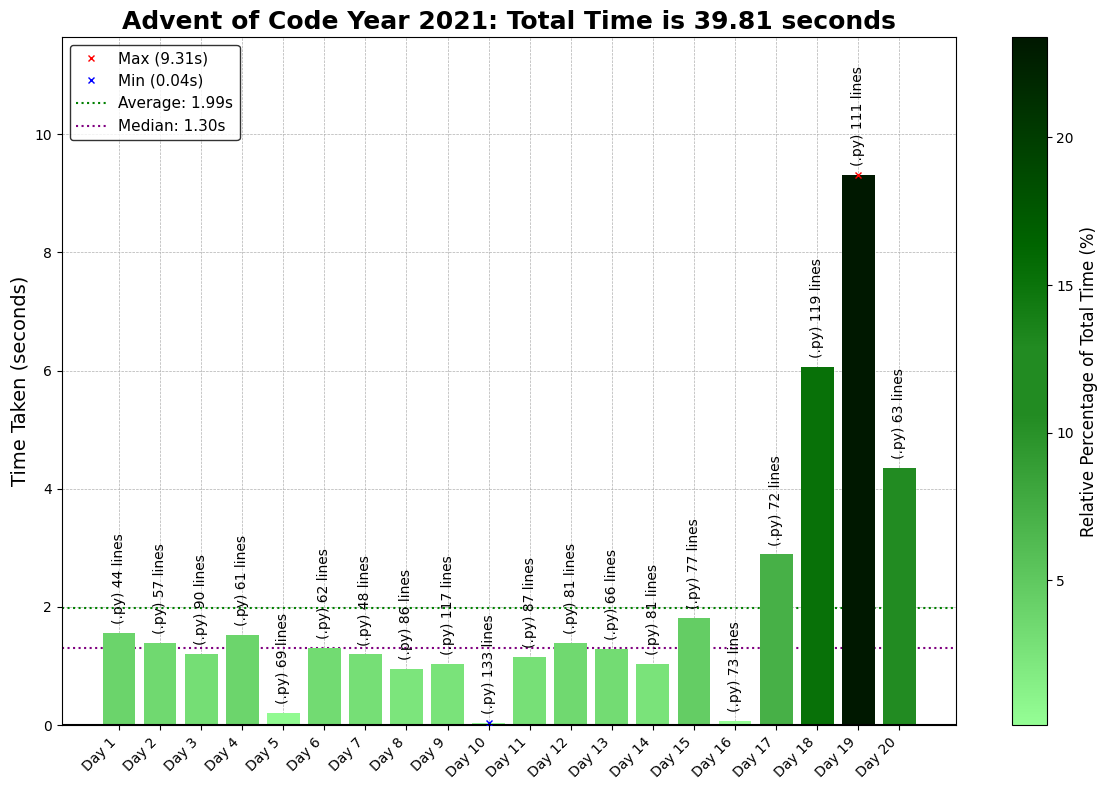
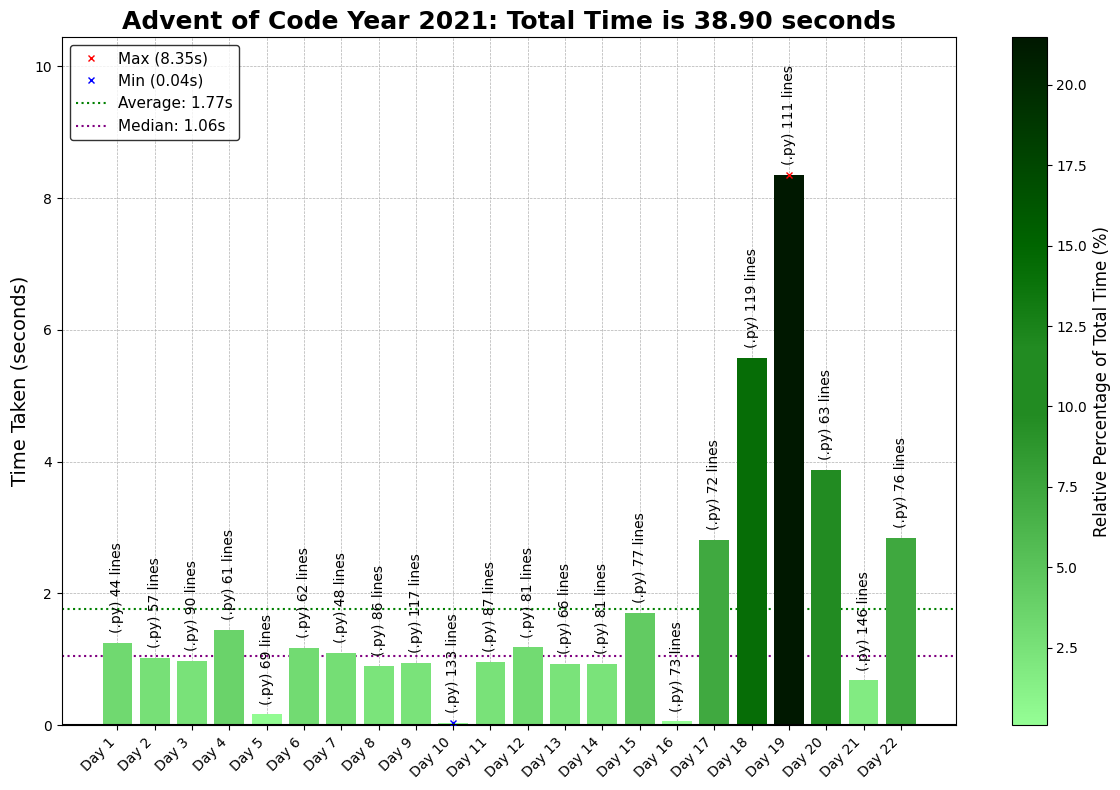
2021 Day 21 & 22

diff --git a/2021/21/2021Day21.py b/2021/21/2021Day21.py
@@ -1,0 +1,146 @@
+# Advent of Code - Day 21, Year 2021
+# Solution Started: Nov 26, 2024
+# Puzzle Link: https://adventofcode.com/2021/day/21
+# Solution by: [abbasmoosajee07]
+# Brief: [Dirac Dice]
+
+#!/usr/bin/env python3
+
+import os, re, copy
+import numpy as np
+import pandas as pd
+from itertools import product, cycle
+from functools import lru_cache
+
+# Load the input data from the specified file path
+D21_file = "Day21_input.txt"
+D21_file_path = os.path.join(os.path.dirname(os.path.abspath(__file__)), D21_file)
+
+# Read and sort input data into a grid
+with open(D21_file_path) as file:
+    input_data = file.read().strip().split('\n')
+
+# Load the input data from the specified file path
+D21_file = "Day21_input.txt"
+D21_file_path = os.path.join(os.path.dirname(os.path.abspath(__file__)), D21_file)
+
+# Read and sort input data into a grid
+with open(D21_file_path) as file:
+    input_data = file.read().strip().split('\n')
+
+def parse_player_info(player_list):
+    """Parse the input data to get player starting positions."""
+    player_dict = {}
+    for player in player_list:
+        player_number, start_position = map(int,
+                re.search(r"Player (\d+) starting position: (\d+)",
+                    player).groups())
+        player_dict[player_number] = [start_position, 0]  # [position, score]
+    return player_dict
+
+def play_turn(players, player_no, total_rolls, dice_size = 100):
+    """Simulate a player's turn by rolling dice and updating their position and score."""
+    board_position = players[player_no][0]
+
+    # Roll the dice 3 times per turn
+    for _ in range(ROLLS_PER_TURN):
+        dice_roll = (total_rolls % dice_size) + 1  # Dice rolls between 1 and 100
+        total_rolls += 1  # Move to the next dice roll
+
+        # Update the player's board position with wrap-around
+        board_position = (board_position + dice_roll - 1) % BOARD_SIZE + 1
+
+    # Update the player's position and score
+    players[player_no][0] = board_position
+    players[player_no][1] += board_position  # Add the new board position to score
+
+    return players, total_rolls  # Continue the game otherwise
+
+
+BOARD_SIZE = 10
+ROLLS_PER_TURN = 3
+
+def play_simple_game(player_init, winning_score):
+    player_dict = copy.deepcopy(player_init)
+    turn = 0
+    total_rolls = 0
+    game_over = False
+
+    while not game_over:
+        # Alternate between player 1 and player 2
+        player_no = (turn % len(player_dict)) + 1
+        player_dict, total_rolls = play_turn(player_dict, player_no, total_rolls)
+        turn += 1
+        if player_dict[player_no][1] >= winning_score:
+            game_over = True
+
+    losing_player = (player_no % len(player_dict)) + 1
+    losing_player_score = player_dict[losing_player][1]
+    return total_rolls * losing_player_score
+
+player_init = parse_player_info(input_data)
+ans_p1 = play_simple_game(player_init, winning_score = 1000)
+print("Part 1:", ans_p1)
+
+# Precompute all possible quantum dice roll outcomes (sums of 3 rolls of a 3-sided die)
+QUANTUM_ROLLS = tuple(sum(rolls) for rolls in product(range(1, 4), repeat=3))
+
+@lru_cache(maxsize=None)
+def play_quantum_round(current_player_pos, current_player_score, other_player_pos, other_player_score, score_limit):
+    """
+    Recursively simulate all possible universes for the quantum dice game.
+    
+    Arguments:
+    - current_player_pos: The current position of the active player.
+    - current_player_score: The score of the active player.
+    - other_player_pos: The current position of the opponent.
+    - other_player_score: The score of the opponent.
+    - score_limit: The score required to win the game.
+
+    Returns:
+    - A tuple (current_player_wins, other_player_wins), representing the number
+      of universes won by each player from this state.
+    """
+    # If the current player has reached or exceeded the score limit, they win
+    if current_player_score >= score_limit:
+        return 1, 0
+
+    # If the other player has reached or exceeded the score limit, they win
+    if other_player_score >= score_limit:
+        return 0, 1
+
+    # Track the total wins for both players
+    current_player_wins = 0
+    other_player_wins = 0
+
+    # Iterate over all possible quantum dice roll outcomes
+    for roll_sum in QUANTUM_ROLLS:
+        # Calculate the new position and score for the current player
+        new_position = (current_player_pos + roll_sum - 1) % 10 + 1
+        new_score = current_player_score + new_position
+
+        # Simulate the game from the opponent's perspective (switch turns)
+        opponent_wins, player_wins = play_quantum_round(
+            other_player_pos, other_player_score, new_position, new_score, score_limit
+        )
+
+        # Update the win counts for this branch
+        current_player_wins += player_wins
+        other_player_wins += opponent_wins
+
+    return current_player_wins, other_player_wins
+
+def start_quantum_game(player_dict, score_limit):
+
+    player_pos_1 = player_dict[1][0]
+    player_score_1 = player_dict[1][1]
+    player_pos_2 = player_dict[2][0]
+    player_score_2 = player_dict[2][1]
+
+    wins =  play_quantum_round(player_pos_1, player_score_1, player_pos_2, player_score_2, score_limit)
+    return wins
+
+score_limit = 21
+quantum_iters = start_quantum_game(player_init, score_limit)
+print("Part 2:", max(quantum_iters))
+

diff --git a/2021/22/2021Day22_P2.py b/2021/22/2021Day22_P2.py
@@ -1,0 +1,113 @@
+# Advent of Code - Day 22, Year 2021
+# Solution Started: Nov 26, 2024
+# Puzzle Link: https://adventofcode.com/2021/day/22
+# Solution by: [abbasmoosajee07]
+# Brief: [Cubes, a lot of Cubes P2]
+
+#!/usr/bin/env python3
+
+import os, re, copy
+import numpy as np
+import pandas as pd
+import matplotlib.pyplot as plt
+
+# Load the input data from the specified file path
+D22_file = "Day22_input.txt"
+D22_file_path = os.path.join(os.path.dirname(os.path.abspath(__file__)), D22_file)
+
+# Read and sort input data into a grid
+with open(D22_file_path) as file:
+    input_data = file.read().strip()#.split('\n')
+
+import collections
+import re
+
+# Named tuples for point and instruction definitions
+Point = collections.namedtuple("Point", ["x", "y", "z"])
+Instruction = collections.namedtuple("Instruction", ["value", "cuboid"])
+
+class Cuboid:
+    def __init__(self, corner1: Point, corner2: Point):
+        self.c1 = corner1  # First corner of the cuboid (min corner)
+        self.c2 = corner2  # Second corner of the cuboid (max corner)
+
+    def __repr__(self):
+        """Return a string representation of the cuboid."""
+        return f"Cuboid: {self.c1.x, self.c1.y, self.c1.z}, {self.c2.x, self.c2.y, self.c2.z}"
+
+    def is_valid(self) -> bool:
+        """Check if the cuboid is valid (no zero or negative volume)."""
+        return (self.c1.x < self.c2.x) and (self.c1.y < self.c2.y) and (self.c1.z < self.c2.z)
+
+    @property
+    def volume(self):
+        """Calculate and return the volume of the cuboid."""
+        return (self.c2.x - self.c1.x) * (self.c2.y - self.c1.y) * (self.c2.z - self.c1.z)
+
+def get_overlap(a: Cuboid, b: Cuboid):
+    """Calculate the overlapping cuboid between two cuboids, or return None if no overlap."""
+    # Create a potential overlap cuboid by comparing the minimum and maximum coordinates
+    overlap = Cuboid(
+        Point(max(a.c1.x, b.c1.x), max(a.c1.y, b.c1.y), max(a.c1.z, b.c1.z)),
+        Point(min(a.c2.x, b.c2.x), min(a.c2.y, b.c2.y), min(a.c2.z, b.c2.z))
+    )
+    # If the overlap is valid, return it, else return None
+    return overlap if overlap.is_valid() else None
+
+def parse_input(filename: str) -> list[Instruction]:
+    """Parse the input file and return a list of instructions."""
+    regex = re.compile(r"(on|off) x=(-?[0-9]+)\.\.(-?[0-9]+),y=(-?[0-9]+)\.\.(-?[0-9]+),z=(-?[0-9]+)\.\.(-?[0-9]+)")
+    instructions = []
+    
+    with open(filename, "r") as file:
+        for line in file:
+            if match := regex.search(line):
+                value = match[1] == "on"  # 'on' means True, 'off' means False
+                pt1 = Point(int(match[2]), int(match[4]), int(match[6]))
+                pt2 = Point(int(match[3]), int(match[5]), int(match[7]))
+                
+                # Ensure the coordinates are ordered min..max for consistency
+                assert pt1 == Point(min(pt1.x, pt2.x), min(pt1.y, pt2.y), min(pt1.z, pt2.z)), \
+                    "Input data ordering doesn't comply with expected min..max format"
+                assert pt2 == Point(max(pt1.x, pt2.x), max(pt1.y, pt2.y), max(pt1.z, pt2.z)), \
+                    "Input data ordering doesn't comply with expected min..max format"
+                
+                # Adjust to match the correct corner points (add 1 to pt2)
+                pt2 = Point(pt2.x + 1, pt2.y + 1, pt2.z + 1)
+                cuboid = Cuboid(pt1, pt2)
+                instructions.append(Instruction(value, cuboid))
+            else:
+                assert False, f"Error reading line: {line} -- are the coordinates out of order?"
+    
+    return instructions
+
+def run_instructions(instructions: list[Instruction]) -> int:
+    """Execute all instructions and calculate the total volume of lit cubes."""
+    placed = []  # List to keep track of placed cuboids
+    total_volume = 0  # Total volume of 'on' cubes
+
+    for instruction in reversed(instructions):
+        # If the cuboid is 'on', we calculate its contribution to the total volume
+        if instruction.value:
+            overlaps = []
+            # Check for overlaps with previously placed cuboids
+            for cuboid in placed:
+                if (overlapping := get_overlap(cuboid, instruction.cuboid)) is not None:
+                    # If there's an overlap, we consider it as 'on'
+                    overlaps.append(Instruction(True, overlapping))
+            # Calculate the volume contributed by the current cuboid
+            volume_to_add = instruction.cuboid.volume - run_instructions(overlaps)
+            total_volume += volume_to_add
+
+        # Add the current cuboid to the placed list (whether it's on or off)
+        placed.append(instruction.cuboid)
+    
+    # Ensure the total volume is non-negative
+    assert total_volume >= 0, "Negative volume shouldn't happen"
+    return total_volume
+
+# Load and parse the input file
+instructions = parse_input(D22_file_path)
+
+# Calculate the total number of lit cubes and print the result
+print(f"Part 2: {run_instructions(instructions)}")

diff --git a/2021/22/2021Day22_P1.py b/2021/22/2021Day22_P1.py
@@ -1,0 +1,76 @@
+# Advent of Code - Day 22, Year 2021
+# Solution Started: Nov 26, 2024
+# Puzzle Link: https://adventofcode.com/2021/day/22
+# Solution by: [abbasmoosajee07]
+# Brief: [Cubes, a lot of Cubes P1]
+
+#!/usr/bin/env python3
+
+import os, re, copy
+import numpy as np
+import pandas as pd
+import matplotlib.pyplot as plt
+
+# Load the input data from the specified file path
+D22_file = "Day22_input.txt"
+D22_file_path = os.path.join(os.path.dirname(os.path.abspath(__file__)), D22_file)
+
+# Read and sort input data into a grid
+with open(D22_file_path) as file:
+    input_data = file.read().strip().split('\n')
+
+def parse_instruction(instruction_list):
+    complete_dict = []
+    for instruction in instruction_list:
+        # Use regex to match the pattern
+        pattern = r"(?P<action>\w+) x=(?P<x_start>-?\d+)..(?P<x_end>-?\d+),y=(?P<y_start>-?\d+)..(?P<y_end>-?\d+),z=(?P<z_start>-?\d+)..(?P<z_end>-?\d+)"
+        match = re.match(pattern, instruction)
+
+        if match:
+            instruction_dict = {
+                "action": match.group("action"),
+                "x_range": (int(match.group("x_start")), int(match.group("x_end"))),
+                "y_range": (int(match.group("y_start")), int(match.group("y_end"))),
+                "z_range": (int(match.group("z_start")), int(match.group("z_end"))),
+            }
+        complete_dict.append(instruction_dict)
+    return complete_dict
+
+# Example usage
+instruction_dict = parse_instruction(input_data)
+
+def create_cuboid(cuboid_info, limit = 50):
+    cube_coords = set()
+    x1, x2 = cuboid_info['x_range']
+    y1, y2 = cuboid_info['y_range']
+    z1, z2 = cuboid_info['z_range']
+
+    # Ensure the ranges are correct: always iterate from the smaller value to the larger value
+    x_min, x_max = min(x1, x2), max(x1, x2)
+    y_min, y_max = min(y1, y2), max(y1, y2)
+    z_min, z_max = min(z1, z2), max(z1, z2)
+
+    # Check if all coordinates are within the valid range of -limit to limit
+    if -limit <= x_min <= limit and -limit <= x_max <= limit and -limit <= y_min <= limit \
+        and -limit <= y_max <= limit and -limit <= z_min <= limit and -limit <= z_max <= limit:
+        # Iterate through all points within the cuboid range
+        for x in range(x_min, x_max + 1):
+            for y in range(y_min, y_max + 1):
+                for z in range(z_min, z_max + 1):
+                    cube_coords.add((x, y, z))
+    else:
+        cube_coords = set()
+    return cube_coords
+
+full_grid = set()
+
+# Assuming instruction_dict is a list of dictionaries with 'action' and range information
+for instruction in instruction_dict:
+    cube_coords = create_cuboid(instruction)
+    if instruction['action'] == 'on':
+        full_grid.update(cube_coords)
+    elif instruction['action'] == 'off':
+        full_grid.difference_update(cube_coords)
+
+# Print the result (total number of cubes turned on)
+print("Part 1:", len(full_grid))

diff --git a/2021/20/2021Day20.py b/2021/20/2021Day20.py
@@ -2,7 +2,7 @@
 # Solution Started: Nov 26, 2024
 # Puzzle Link: https://adventofcode.com/2021/day/20
 # Solution by: [abbasmoosajee07]
-# Brief: [Code/Problem Description]
+# Brief: [Image Decoding]
 
 #!/usr/bin/env python3
 

diff --git a/TemplateCode.py b/TemplateCode.py
@@ -7,7 +7,7 @@
 import os, sys, time
 
 # Default values for the arguments
-DEFAULT_DAY = 4
+DEFAULT_DAY = 22
 DEFAULT_YEAR = 2021
 DEFAULT_YEAR_SOLVE = 2024
 DEFAULT_AUTHOR = 'abbasmoosajee07'

diff --git a/README.md b/README.md
@@ -18,17 +18,16 @@ In this repository, you’ll find:
 - Each year folder also contains a `Run_2024.py` script that runs all the primary solutions for that year, and generates a runtime plot stored in the corresponding `README_2024.md`.
 
 ## How to Use
-
-| Year | Stars | Languages     | Repository |
-|------|-------|--------------------|-----------|
-| 2024 |       |       | [GitHub](https://github.com/abbasmoosajee07/AdventofCode) |
-| 2023 |       |              | [GitHub](https://github.com/abbasmoosajee07/AdventofCode) |
-| 2022 | 2\*   |              | [GitHub](https://github.com/abbasmoosajee07/AdventofCode) |
-| 2021 |       |                    | [GitHub](https://github.com/abbasmoosajee07/AdventofCode) |
-| 2020 |       |                    | [GitHub](https://github.com/abbasmoosajee07/AdventofCode) |
-| 2019 |24\*   | Python/Ruby/C | [GitHub](https://github.com/abbasmoosajee07/AdventofCode/tree/main/2019) |
-| 2018 | 50\*  | Python/Ruby/C             | [GitHub](https://github.com/abbasmoosajee07/AdventofCode/tree/main/2018) |
-| 2017 | 50\*  | Python/Ruby/C   | [GitHub](https://github.com/abbasmoosajee07/AdventofCode/tree/main/2017) |
-| 2016 | 50\*  | Python/Ruby/C             | [GitHub](https://github.com/abbasmoosajee07/AdventofCode/tree/main/2016) |
-| 2015 | 50\*  | Python/Ruby/C/R             | [GitHub](https://github.com/abbasmoosajee07/AdventofCode/tree/main/2015) |
-| **Total** | **202\*** |                    |           |
+| Year | Stars | Time (s) | Languages        | Repository |
+|------|-------|-----------------|------------------|------------|
+| 2024 |       |                 |                  | [GitHub](https://github.com/abbasmoosajee07/AdventofCode) |
+| 2023 |       |                 |                  | [GitHub](https://github.com/abbasmoosajee07/AdventofCode) |
+| 2022 | 2\*   |                 |                  | [GitHub](https://github.com/abbasmoosajee07/AdventofCode) |
+| 2021 | 40\*  | 39.81 s| Python/Ruby/C    | [GitHub](https://github.com/abbasmoosajee07/AdventofCode) |
+| 2020 | 50\*  |125.88 s| Python/Ruby/C    | [GitHub](https://github.com/abbasmoosajee07/AdventofCode) |
+| 2019 | 24\*  | 10.22 s| Python/Ruby/C    | [GitHub](https://github.com/abbasmoosajee07/AdventofCode/tree/main/2019) |
+| 2018 | 50\*  |145.62 s| Python/Ruby/C    | [GitHub](https://github.com/abbasmoosajee07/AdventofCode/tree/main/2018) |
+| 2017 | 50\*  |136.12s | Python/Ruby/C    | [GitHub](https://github.com/abbasmoosajee07/AdventofCode/tree/main/2017) |
+| 2016 | 50\*  |208.35 s| Python/Ruby/C    | [GitHub](https://github.com/abbasmoosajee07/AdventofCode/tree/main/2016) |
+| 2015 | 50\*  |538.48 s| Python/Ruby/C/R  | [GitHub](https://github.com/abbasmoosajee07/AdventofCode/tree/main/2015) |
+| **Total** | **202\*** |                 |                  |            |
